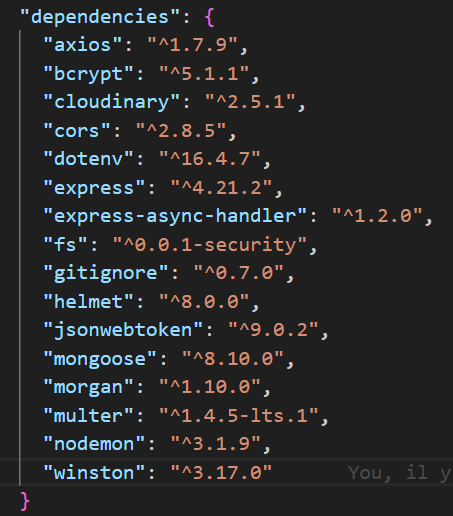
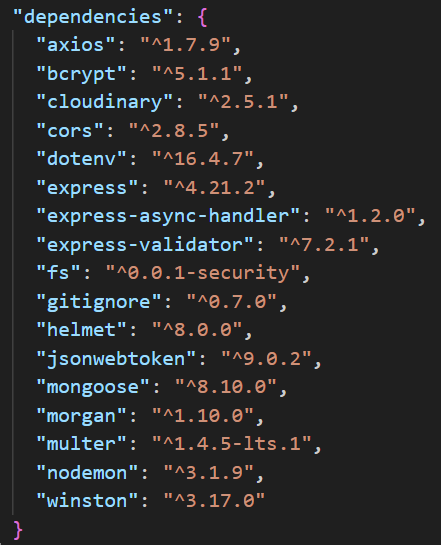
end front-end

diff --git a/backend/src/validations/authValidation.js b/backend/src/validations/authValidation.js
@@ -1,0 +1,37 @@
+const { body, params } = require("express-validator");
+
+exports.validateLogin = [
+  body("email")
+    .trim()
+    .notEmpty()
+    .withMessage("L'email est obligatoire")
+    .isLength({ max: 50 })
+    .withMessage("L'email doit faire moins de 50 characteres"),
+  body("password")
+    .trim()
+    .notEmpty()
+    .withMessage("Le mot de passe est obligatoire"),
+];
+
+// Skill
+exports.validateCreateSkill = [
+  body("title")
+    .trim()
+    .notEmpty()
+    .withMessage("Le titre est obligatoire")
+    .isLength({ min: 2 })
+    .withMessage("le titre du skill doit faire au moins 2 characteres")
+    .isLength({ max: 20 })
+    .withMessage("le titre du skill doit faire moins de 20 characteres"),
+
+  body("category")
+    .trim()
+    .notEmpty()
+    .withMessage("La categorie est obligatoire")
+    .isLength({ min: 2 })
+    .withMessage("La categorie du skill doit faire au moins 2 characteres")
+    .isLength({ max: 20 })
+    .withMessage("La categorie du skill doit faire moins de 15 characteres"),
+
+  body("level").trim().notEmpty().withMessage("Le niveau est obligatoire"),
+];

diff --git a/backend/src/routes/skillRoutes.js b/backend/src/routes/skillRoutes.js
@@ -1,7 +1,10 @@
 const express = require("express");
 const router = express.Router();
 const multer = require("multer");
+
 const { protect } = require("../middleware/authMiddleware");
+const { validateRequest } = require("../middleware/validateRequest");
+const { validateCreateSkill } = require("../validations/authValidation");
 
 const {
   createSkill,
@@ -13,8 +16,22 @@ const {
 const upload = multer({ dest: "uploads/" });
 
 router.get("/", getAllSkills);
-router.post("/addSkill", upload.single("imageFile"), protect, createSkill);
-router.put("/:id", upload.single("imageFile"), protect, updateSkill);
+router.post(
+  "/addSkill",
+  upload.single("imageFile"),
+  protect,
+  validateCreateSkill,
+  validateRequest,
+  createSkill
+);
+router.put(
+  "/:id",
+  upload.single("imageFile"),
+  protect,
+  validateCreateSkill,
+  validateRequest,
+  updateSkill
+);
 router.delete("/:id", protect, deleteSkill);
 
 module.exports = router;

diff --git a/backend/src/routes/userRoutes.js b/backend/src/routes/userRoutes.js
@@ -7,10 +7,18 @@ const {
   getAllUsers,
 } = require("../controllers/userController");
 const { protectAdmin, protect } = require("../middleware/authMiddleware");
-const { verify } = require("jsonwebtoken");
+
+const { validateLogin } = require("../validations/authValidation");
+const { validateRequest } = require("../middleware/validateRequest");
 
 router.get("/", protect, protectAdmin, getAllUsers);
 router.post("/register", createUser);
-router.post("/login", verifyRecaptcha, loginUser);
+router.post(
+  "/login",
+  verifyRecaptcha,
+  validateLogin,
+  validateRequest,
+  loginUser
+);
 
 module.exports = router;

diff --git a/backend/src/middleware/validateRequest.js b/backend/src/middleware/validateRequest.js
@@ -1,0 +1,13 @@
+const { validationResult } = require("express-validator");
+
+exports.validateRequest = (req, res, next) => {
+  //valider les données de la requete
+  const errors = validationResult(req);
+
+  //si les données sont invalides renvoyer une erreur
+  if (!errors.isEmpty()) {
+    return res.status(400).json({ errors: errors.array() });
+  }
+
+  next();
+};

diff --git a/backend/README.md b/backend/README.md
@@ -52,13 +52,16 @@ password : xan
 │   │   ├── errorHandler.js
 │   │   ├── morganMiddleware.js
 │   │   ├── recaptchaMiddleware.js
+│   │   ├── validateRequest.js
 │   ├── models/
 │   │   ├── Settings.js
 │   │   ├── Skills.js
 │   │   ├── User.js
 │   ├── routes/
-│       ├── skillRoutes.js
-│       ├── userRoutes.js
+│   |   ├── skillRoutes.js
+│   |   ├── userRoutes.js
+│   ├── validations/
+|   |   ├── authValidation.js
 ├── .env
 ├── .gitignore
 ├── package.json
@@ -106,3 +109,4 @@ node_modules
 - errorHandler.js : Gestion des erreurs globales
 - morganMiddleware.js : Logger HTTP avec Morgan
 - recaptchaMiddleware.js : Vérifie si l'utilisateur à passer le test
+- validateRequest.js : Vérifie si les données envoiées sont valides.

diff --git a/README.md b/README.md
@@ -25,7 +25,7 @@ Voici les [instruction](/ressources/Eval%20Backend.pdf) de l'évaluation.
 
 ## Déploiement:
 
-- [Vercel Front-End Deployment]()
+- [Vercel Front-End Deployment](https://projet-finale.vercel.app/)
 - [Render Back-end Deployment](https://projet-finale.onrender.com/)
 
 ## Snapshot:
